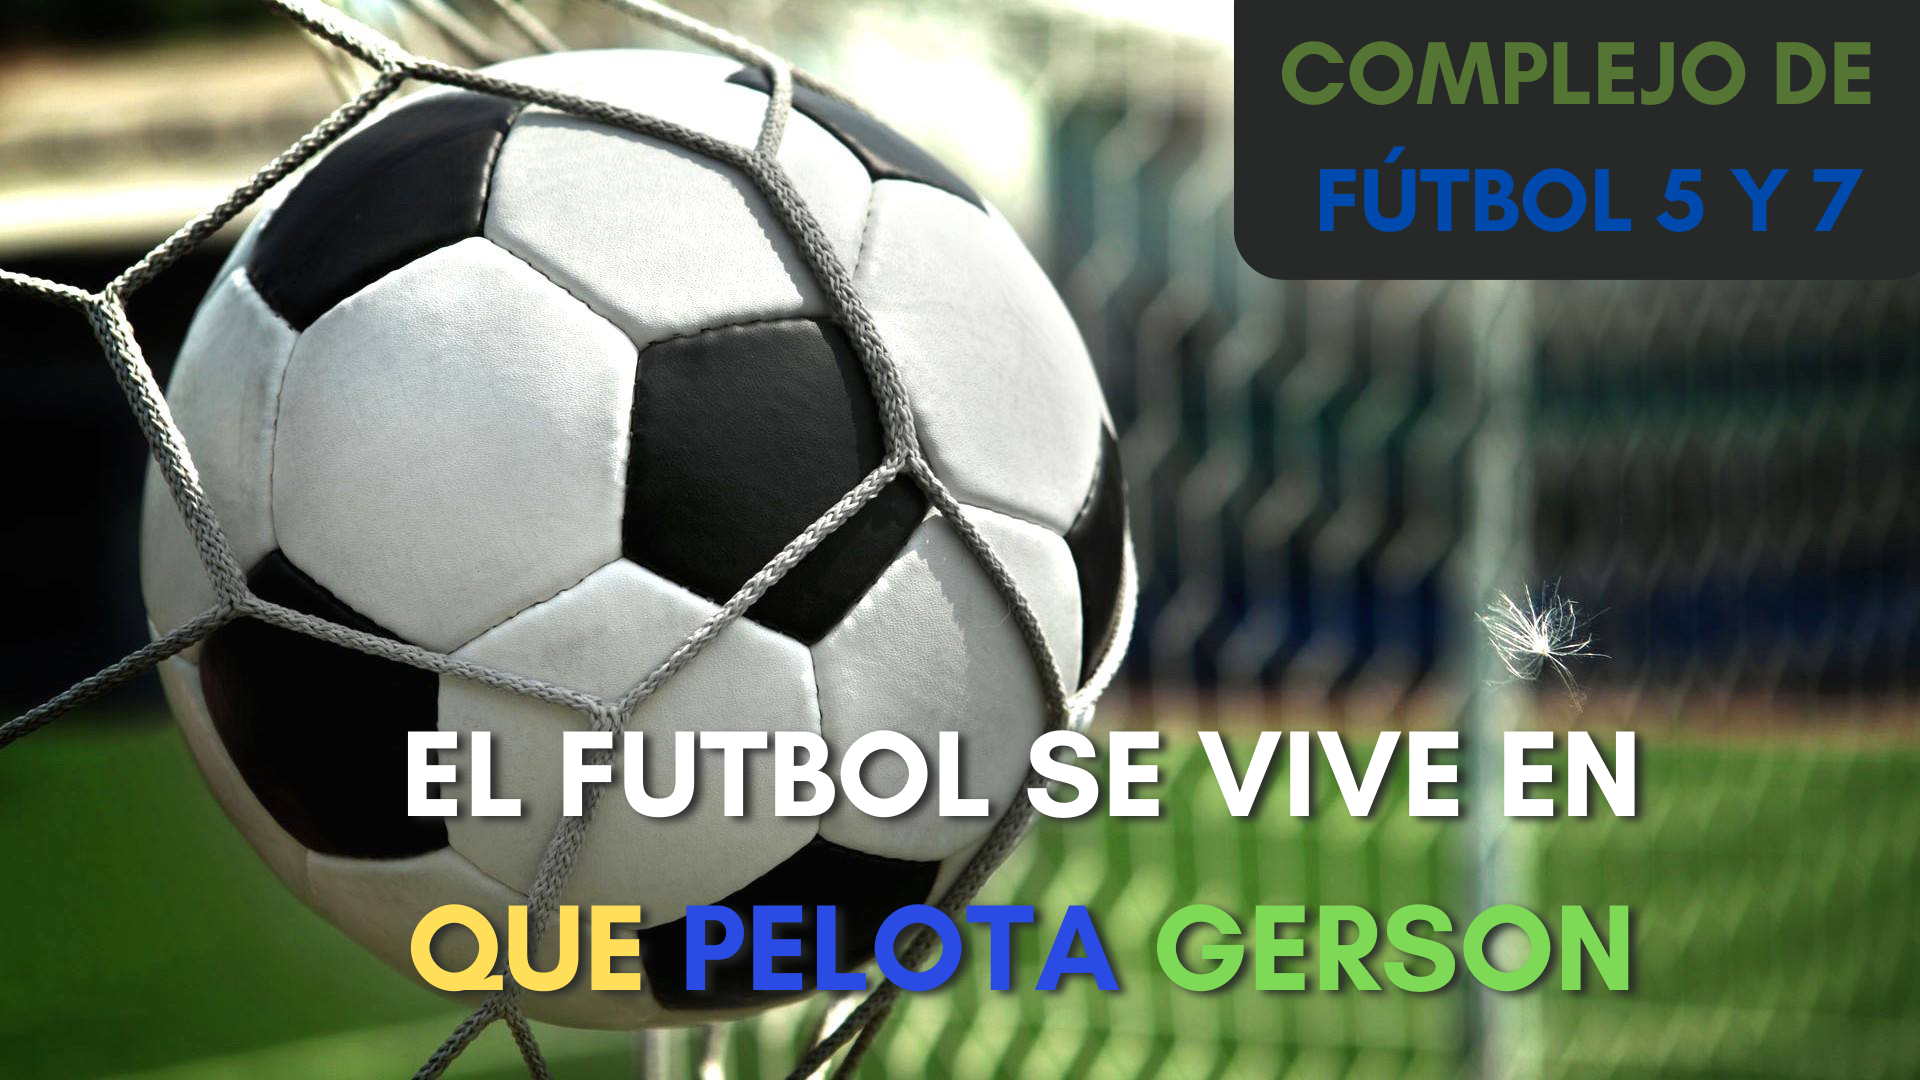
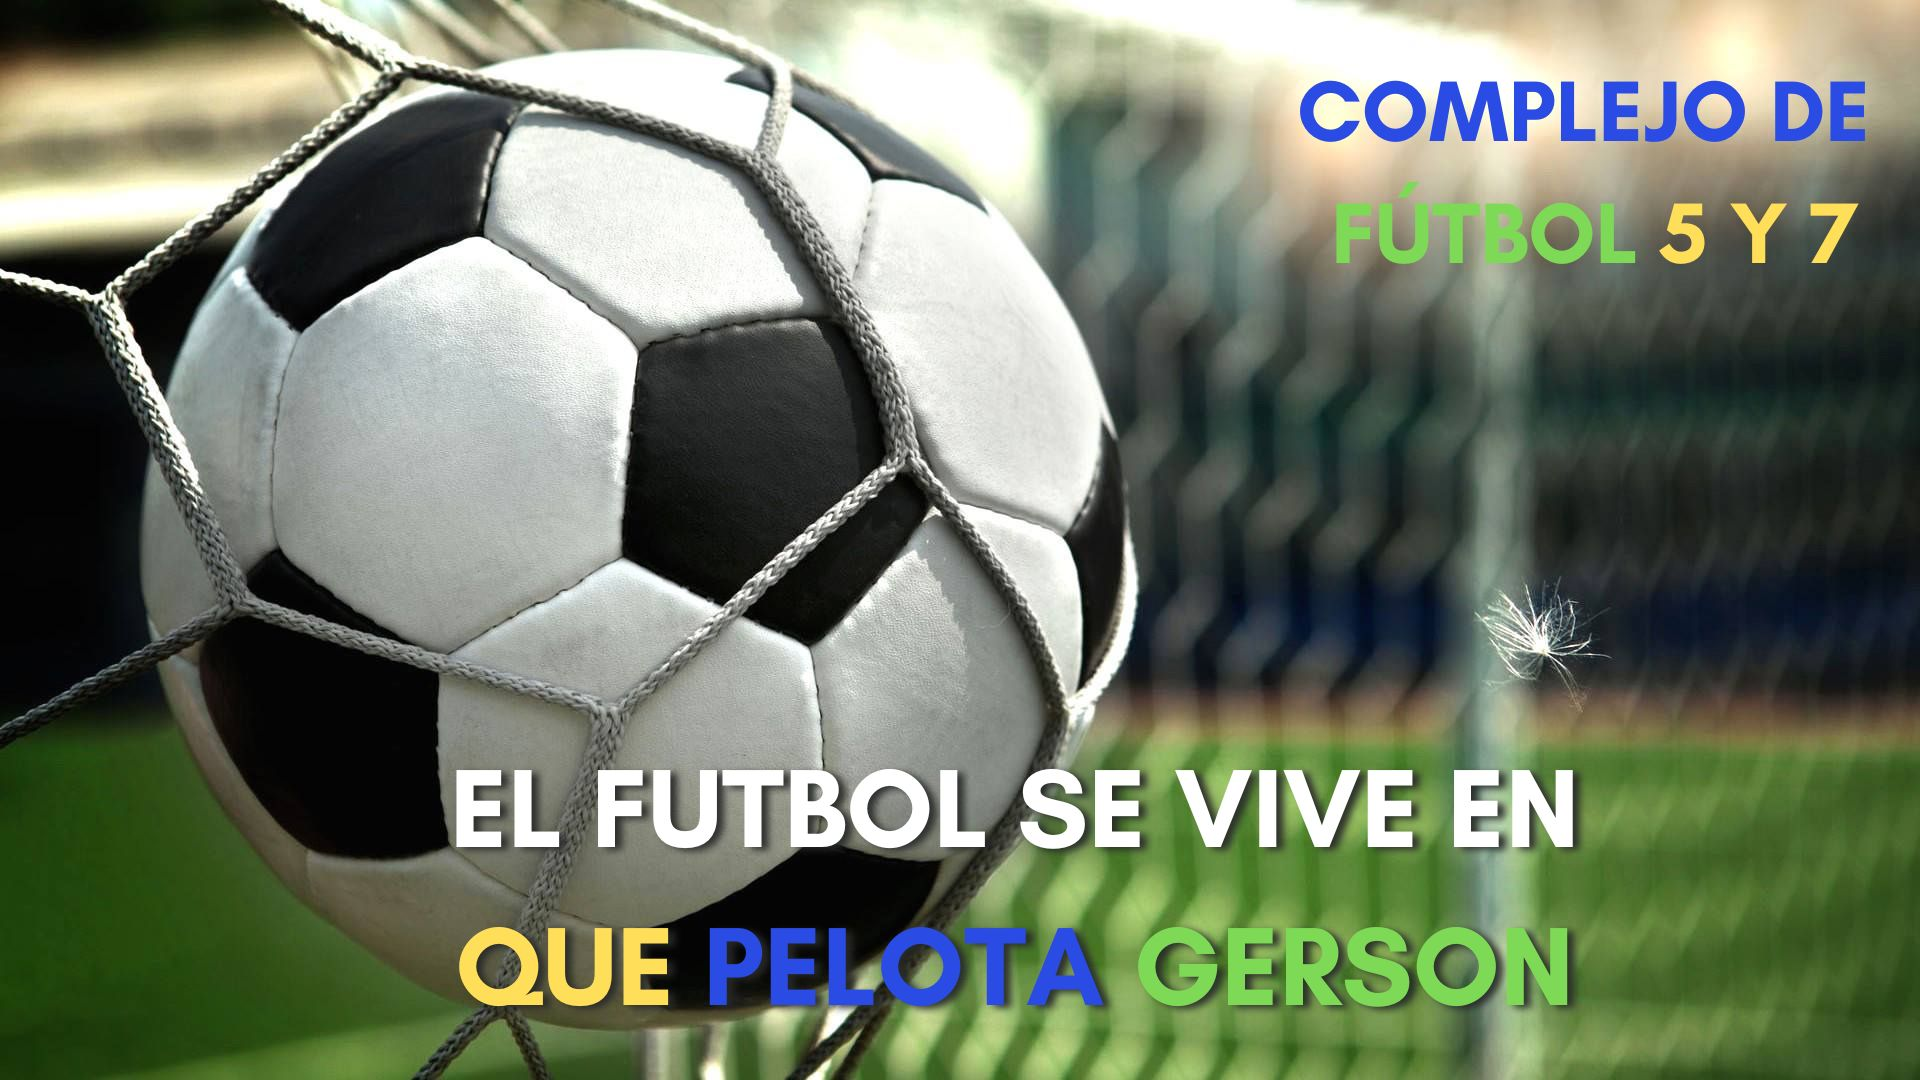
Version Final Corregida

Changed region(s): [[0.625, 0.0, 1.0, 0.275], [0.1875, 0.6722, 0.875, 0.7944], [0.1875, 0.825, 0.875, 0.9472]]

diff --git a/src/index.html b/src/index.html
@@ -5,9 +5,7 @@
 
 <!---
 *TODO: 
-* - Mejorar márgenes, padding,line-heigth
-* - En el titulo el fondo negro complejo de futbol  5 y 7 achicar un poco la letra y sacar el fondo negro porque se pierde le texto 
-
+* - Mejorar márgenes, padding,line-heigth 
 -->
 
 
@@ -54,10 +52,10 @@
     <main>
       
       <section class="titulos">
-        <h2>
+        <h1>
           ¡Bienvenido a "Que Pelota Gerson"!
         ¿Buscás un lugar para jugar fútbol 5 o 7 con tus amigos?
-        </h2>
+        </h1>
         <p>
           En "Que pelota Gerson" contamos con unas instalaciones perfectamente
           equipadas para que vivas partidos memorables, y una experiencia
@@ -70,7 +68,7 @@
       <section id="sbn">
         <img class="back-sbn" src="img/depositphotos_3427494-stock-photo-artificial-grass-turf-background.jpg" alt="fondo césped">
         <div class="text-sbn">
-        <H1>Sobre nosotros</H1>
+        <h2>Sobre nosotros</h2>
         <p>
           En el corazón de la pasión por el fútbol, nace nuestro complejo "Que Pelota Gerson". Somos más que un lugar
           para jugar; somos un espacio donde la emoción y la camaradería se encuentran en cada rincón del campo.
@@ -83,7 +81,7 @@
         <img class="separator" src="img/pngegg.png" alt="">
       </div>
       <section id="servicios">
-        <h1>SERVICIOS</h1>
+        <h2>SERVICIOS</h2>
 
         <div class="grid-container">
           <div class="grid-item">
@@ -135,9 +133,9 @@
       </div>
       
       <section id="canchas">
-        <h1>CANCHAS</h1>
-        <h3> Canchas con césped sintético, y preparadas para que vengas a disfrutar.</h3>
-        <h5> Elegí entre las mismas, y hace tu reserva.</h5>
+        <h2>CANCHAS</h2>
+        <h4> Canchas con césped sintético, y preparadas para que vengas a disfrutar.</h4>
+        <p> Elegí entre las mismas, y hace tu reserva.</p>
         <button id="btn-abrir-modal">Mira las canchas!</button>
 
         <dialog id="modal">
@@ -188,9 +186,9 @@
     </div>
     
       <section id="contact">
-        <h1>
+        <h2>
           CONTACTO
-        </h1>
+        </h2>
         <form id="contacto" onsubmit="return validar();">
           <label for="usuario"></label>
           <input type="text" name="usuario" id="usuario" value="" placeholder="Nombre y Apellido">

diff --git a/src/index.css b/src/index.css
@@ -54,14 +54,18 @@ main{
     background: linear-gradient(to bottom, var(--turquesaclaro),var(--turquesamedio) , var(--turquesaoscuro)); /* W3C, IE 10+/ Edge, Firefox 16+, Chrome 26+, Opera 12+, Safari 7+ */
 }
 
-p{
-    
-}
-
 h2{
     text-transform: uppercase;
+    line-height: 1.5;
 }
 
+h2,h3,h4,h5{
+    scale:1.3;
+}
+
+p{
+    line-height:1.5;
+}
 /* MODAL */
 #modal::backdrop{
     background-color: rgba(0,0,0,.55);
@@ -218,7 +222,10 @@ li:hover{
 }
 
 .titulos{
+    scale:1;
     text-align:center;
+    padding:1rem;
+    margin: 0 2rem;
 }
 
 .site-footer{
@@ -250,6 +257,10 @@ li:hover{
 
 #servicios, #contact, #ubication{
     text-align: center;
+}
+
+#ubication{
+    margin-bottom: 2rem;
 }
 
 .separador{
@@ -457,7 +468,13 @@ li:hover{
         top:0;
         right:0;
         background-color: var(--verdeoscuro);
-        padding: .5rem;
+        padding-left:2rem;
+        padding-bottom:2rem;
+        padding-top:.5rem;
+    }
+
+    .navbar li{
+        margin: .7rem;
     }
     
     .navbar.visible{
